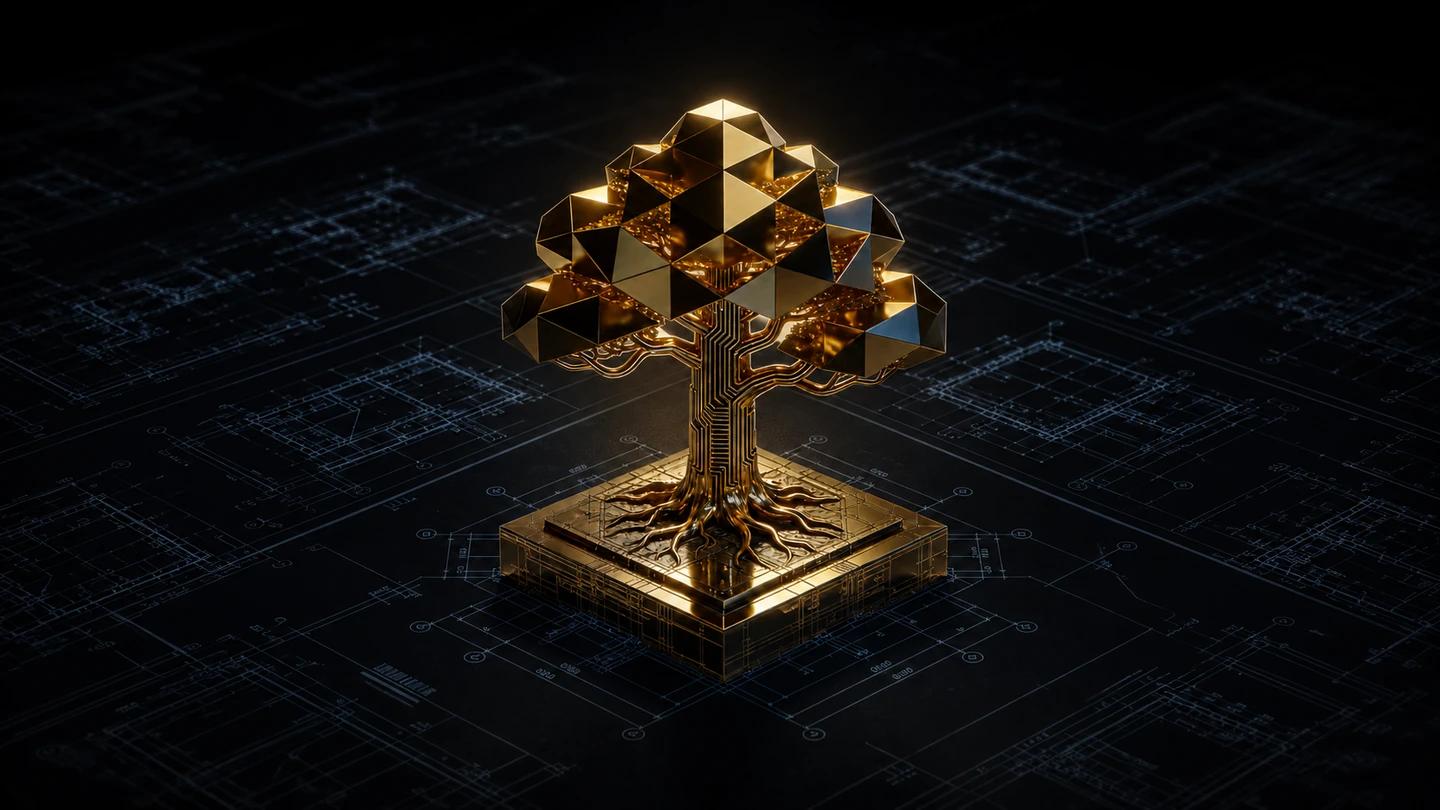
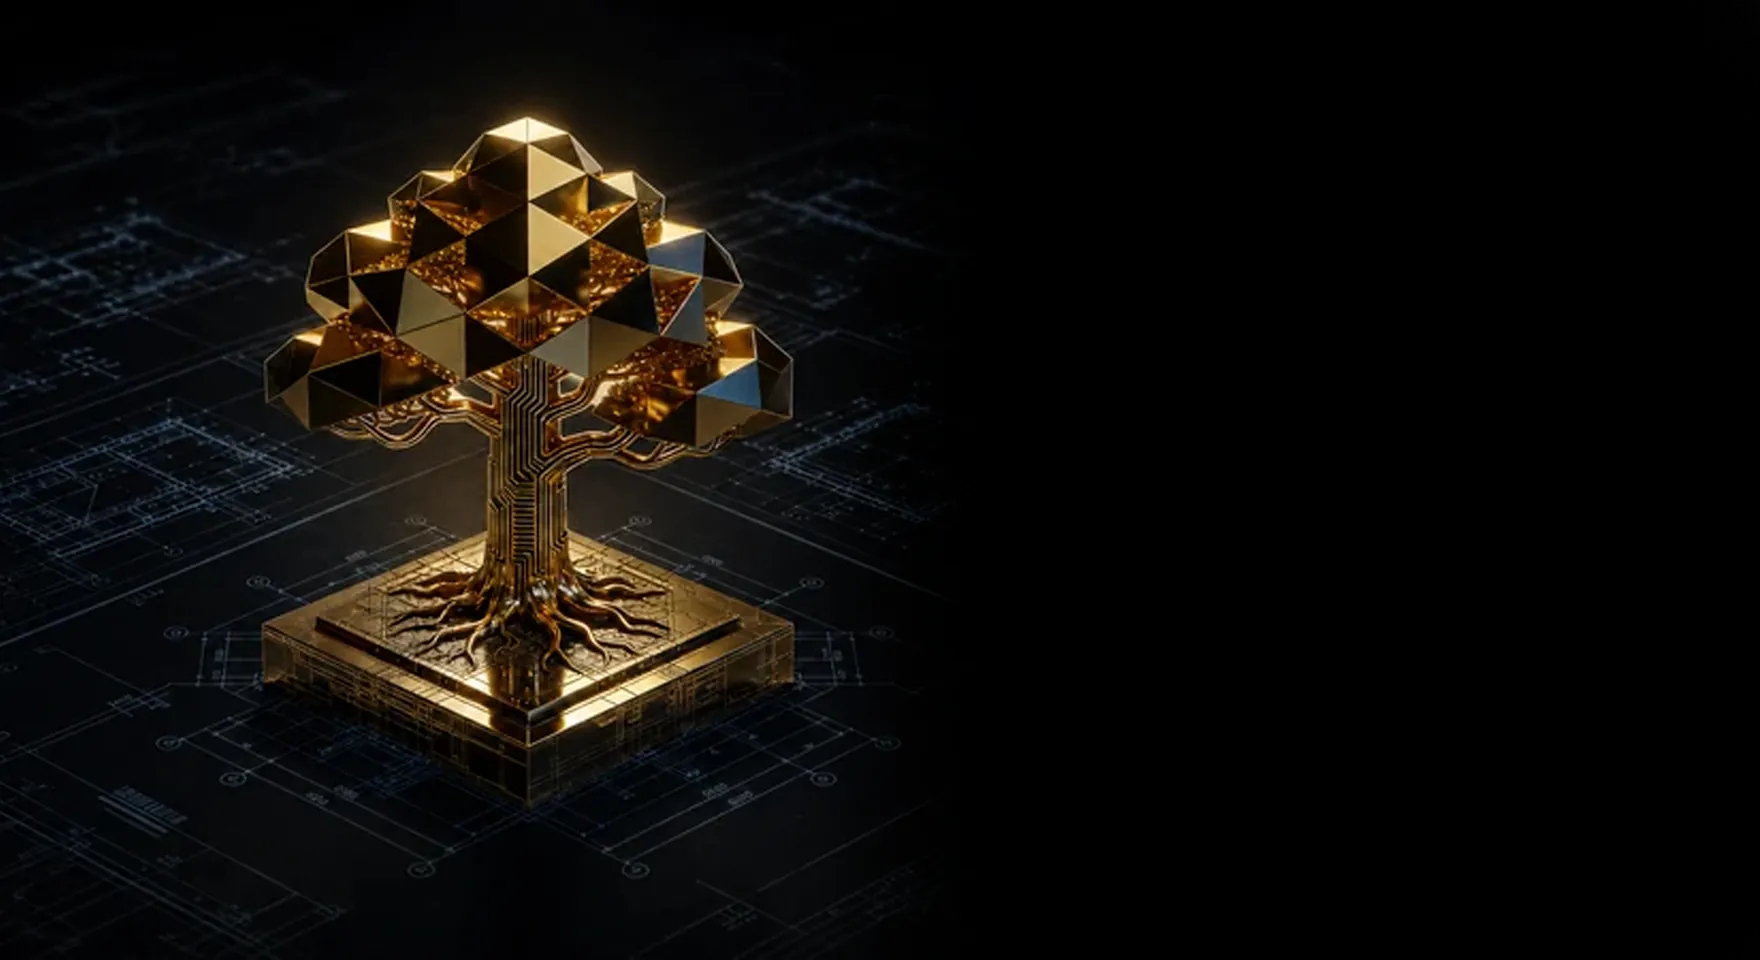
feat(servicos): novas imagens do desktop (preto & dourado) + remove grayscale
- Converte os 8 PNGs enviados (1980x1080, ~1MB) para WebP otimizado
  (15–55KB cada, width 1760, q80) — assessoria, vse, conselheiro, mentoria,
  prm, parcerias, educacao, coproducao
- Remove o filtro grayscale do desktop para as imagens aparecerem douradas
- Remove os PNGs originais (pesados) do repositório

Claude-Session: https://claude.ai/code/session_01J7YYDEmSWZYUp6MqK4YWG6

diff --git a/src/app/components/sessao-section.tsx b/src/app/components/sessao-section.tsx
@@ -391,7 +391,7 @@ function DesktopSessao() {
               willChange: "opacity",
             }}>
               <img src={item.bg} alt="" loading={i === 0 ? "eager" : "lazy"}
-                style={{ width: "100%", height: "100%", objectFit: "cover", objectPosition: "center center", display: "block", filter: "grayscale(100%)", pointerEvents: "none" }} />
+                style={{ width: "100%", height: "100%", objectFit: "cover", objectPosition: "center center", display: "block", pointerEvents: "none" }} />
             </div>
           ))}
         </div>
